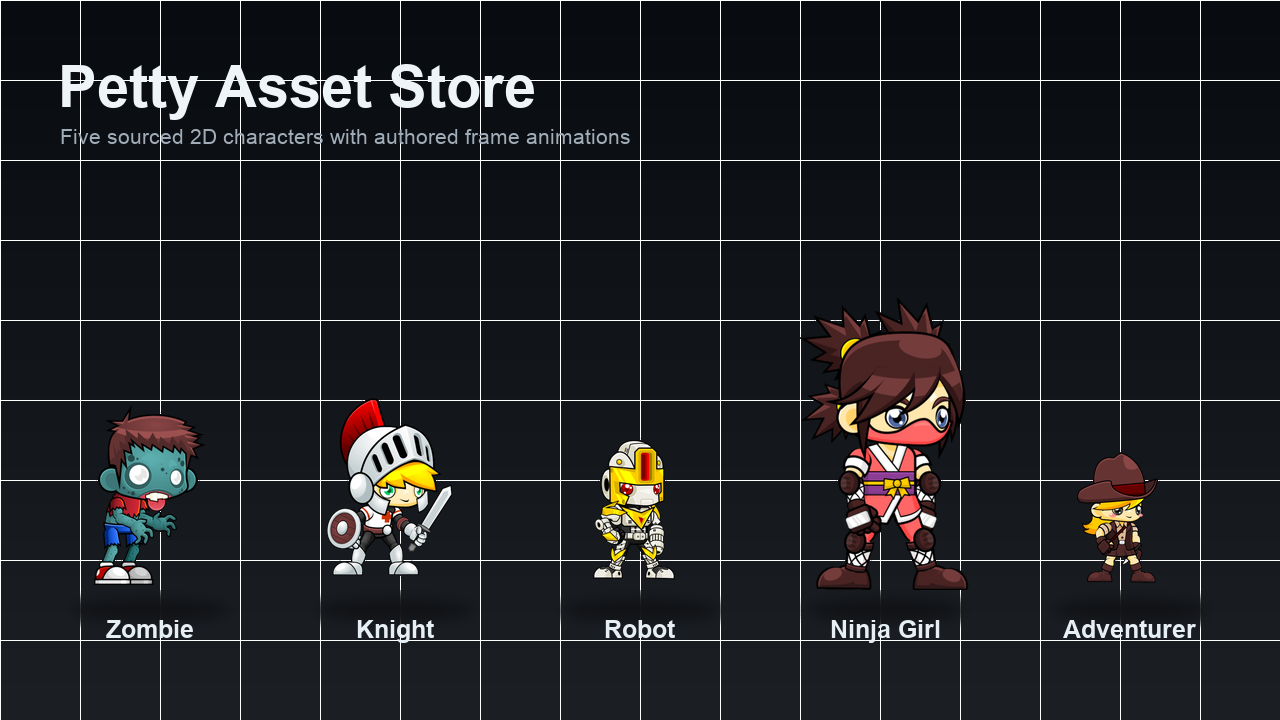
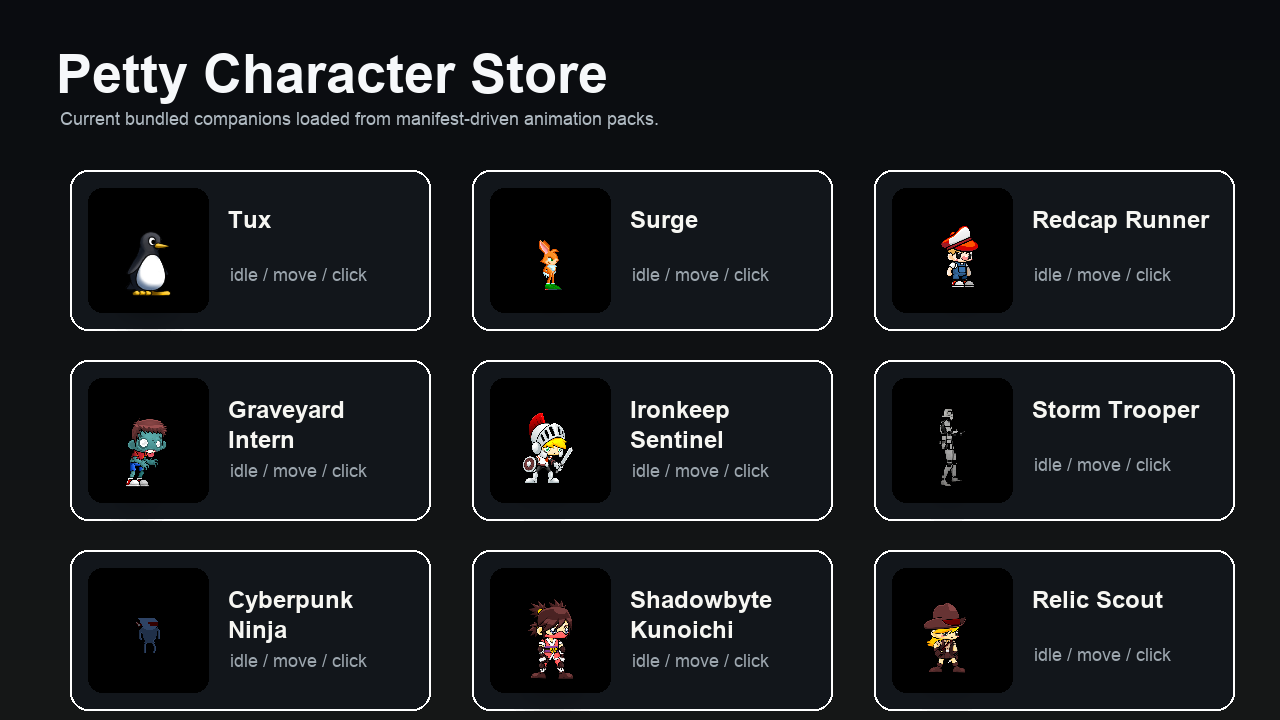
feat(assets): add storm trooper character

diff --git a/Petty/Petty/Character/CharacterAsset.swift b/Petty/Petty/Character/CharacterAsset.swift
@@ -148,8 +148,8 @@ enum CharacterCatalog {
     private static let fallbackAssets: [CharacterAsset] = [
         CharacterAsset(
             id: "gameart2d-zombie",
-            displayName: "Zombie",
-            tagline: "Halloween platformer character",
+            displayName: "Graveyard Intern",
+            tagline: "Sleepy undead companion for idle-mode testing",
             resourceFolder: "GameArt2DZombie",
             resourceURL: nil,
             source: "OpenGameArt CC0 by pzUH / GameArt2D",
@@ -161,8 +161,8 @@ enum CharacterCatalog {
         ),
         CharacterAsset(
             id: "gameart2d-knight",
-            displayName: "Knight",
-            tagline: "Fantasy side-scroller hero",
+            displayName: "Ironkeep Sentinel",
+            tagline: "Castle-guard companion with sword-state animations",
             resourceFolder: "GameArt2DKnight",
             resourceURL: nil,
             source: "GameArt2D Freebie CC0",
@@ -173,22 +173,22 @@ enum CharacterCatalog {
             sleepAnimation: CharacterAnimation(folder: "Dead", frameCount: 10, framesPerSecond: 4, loops: false)
         ),
         CharacterAsset(
-            id: "gameart2d-robot",
-            displayName: "Robot",
-            tagline: "Sci-fi platformer companion",
-            resourceFolder: "GameArt2DRobot",
+            id: "wk-studio-storm-trooper",
+            displayName: "Storm Trooper",
+            tagline: "Free retro Star Wars-tagged 2D animated sprite pack",
+            resourceFolder: "WKStudioStormTrooper",
             resourceURL: nil,
-            source: "GameArt2D Freebie CC0",
+            source: "W_K_Studio CC0 itch.io asset pack",
             sortOrder: 30,
-            idleAnimation: CharacterAnimation(folder: "Idle", frameCount: 10, framesPerSecond: 7, loops: true),
-            walkAnimation: CharacterAnimation(folder: "Walk", frameCount: 8, framesPerSecond: 10, loops: true),
-            attackAnimation: CharacterAnimation(folder: "Attack", frameCount: 8, framesPerSecond: 13, loops: true),
-            sleepAnimation: CharacterAnimation(folder: "Dead", frameCount: 10, framesPerSecond: 4, loops: false)
+            idleAnimation: CharacterAnimation(folder: "Idle", frameCount: 20, framesPerSecond: 8, loops: true),
+            walkAnimation: CharacterAnimation(folder: "Walk", frameCount: 20, framesPerSecond: 12, loops: true),
+            attackAnimation: CharacterAnimation(folder: "Attack", frameCount: 8, framesPerSecond: 12, loops: true),
+            sleepAnimation: CharacterAnimation(folder: "Dead", frameCount: 20, framesPerSecond: 8, loops: false)
         ),
         CharacterAsset(
             id: "gameart2d-ninja-girl",
-            displayName: "Ninja Girl",
-            tagline: "Fast action platformer hero",
+            displayName: "Shadowbyte Kunoichi",
+            tagline: "Stealth runner with sharp desktop focus",
             resourceFolder: "GameArt2DNinjaGirl",
             resourceURL: nil,
             source: "GameArt2D Freebie CC0",
@@ -200,8 +200,8 @@ enum CharacterCatalog {
         ),
         CharacterAsset(
             id: "gameart2d-adventurer-girl",
-            displayName: "Adventurer",
-            tagline: "Temple-run inspired explorer",
+            displayName: "Relic Scout",
+            tagline: "Explorer companion built for quick motion states",
             resourceFolder: "GameArt2DAdventurerGirl",
             resourceURL: nil,
             source: "GameArt2D Freebie CC0",

diff --git a/README.md b/README.md
@@ -4,10 +4,6 @@ Petty is a native macOS prototype for a tiny animated desktop companion. The cur
 
 ## Demo
 
-![Petty demo poster](docs/media/petty-demo-poster.png)
-
-![Petty animation demo](docs/media/petty-demo.gif)
-
 - [X-ready edited MP4 demo with character transitions](docs/media/petty-x-demo.mp4)
 - [Full-size MP4 asset transition demo](docs/media/petty-assets-demo.mp4)
 - [Raw live desktop recording](docs/media/petty-live-recording.mov)
@@ -17,21 +13,23 @@ Petty is a native macOS prototype for a tiny animated desktop companion. The cur
 
 ![Petty asset lineup](docs/media/petty-assets-lineup.png)
 
-The bundled store now includes recognizable free-culture characters from official open-source game projects:
+The bundled store now includes sourced character packs from open game projects, free asset stores, and itch.io:
 
 - Tux from SuperTux.
 - Surge from Open Surge.
-- Santa Claus, Dino, and Red Hat Boy from OpenGameArt/GameArt2D CC0 packs.
+- Storm Trooper from W_K_Studio's CC0 itch.io sprite pack.
+- Redcap Runner from an OpenGameArt/GameArt2D CC0 pack.
+- Cyberpunk Ninja from Pincholinco's CC BY 4.0 itch.io sprite pack.
 
-It also includes the earlier GameArt2D/OpenGameArt packs:
+It also includes the earlier GameArt2D/OpenGameArt packs that remain in the store:
 
-| Zombie | Knight | Robot |
+| Graveyard Intern | Ironkeep Sentinel | Storm Trooper |
 | --- | --- | --- |
-| ![Zombie asset states](docs/media/petty-asset-zombie.png) | ![Knight asset states](docs/media/petty-asset-knight.png) | ![Robot asset states](docs/media/petty-asset-robot.png) |
+| ![Graveyard Intern asset states](docs/media/petty-asset-zombie.png) | ![Ironkeep Sentinel asset states](docs/media/petty-asset-knight.png) | ![Storm Trooper asset states](docs/media/petty-asset-storm-trooper.png) |
 
-| Ninja Girl | Adventurer |
+| Shadowbyte Kunoichi | Relic Scout |
 | --- | --- |
-| ![Ninja Girl asset states](docs/media/petty-asset-ninja-girl.png) | ![Adventurer asset states](docs/media/petty-asset-adventurer.png) |
+| ![Shadowbyte Kunoichi asset states](docs/media/petty-asset-ninja-girl.png) | ![Relic Scout asset states](docs/media/petty-asset-adventurer.png) |
 
 ## Current Prototype Features
 

diff --git a/docs/ASSET_RESEARCH.md b/docs/ASSET_RESEARCH.md
@@ -20,20 +20,6 @@ This file tracks recognizable character candidates checked against official or p
 - License finding: the official Open Surge site says the engine includes ready-to-use game assets under Creative Commons licenses; the `sprites/players/surge.spr` file lists MIT for the sprite definition.
 - Imported as: `Petty/Petty/Resources/Characters/OpenSurgeSurge`
 
-### Santa Claus from OpenGameArt / GameArt2D
-
-- Official source: https://opengameart.org/content/santa-claus-free-sprites
-- Why it fits: recognizable Christmas folklore character with authored frame animations.
-- License finding: OpenGameArt lists the asset as CC0.
-- Imported as: `Petty/Petty/Resources/Characters/GameArt2DSanta`
-
-### Dino from OpenGameArt / GameArt2D
-
-- Official source: https://opengameart.org/content/free-dino-sprites
-- Why it fits: recognizable T-Rex/dinosaur mascot style with authored frame animations.
-- License finding: OpenGameArt lists the asset as CC0.
-- Imported as: `Petty/Petty/Resources/Characters/GameArt2DDino`
-
 ### Red Hat Boy from OpenGameArt / GameArt2D
 
 - Official source: https://opengameart.org/content/red-hat-boy-free-sprites
@@ -41,7 +27,22 @@ This file tracks recognizable character candidates checked against official or p
 - License finding: OpenGameArt lists the asset as CC0.
 - Imported as: `Petty/Petty/Resources/Characters/GameArt2DRedHatBoy`
 
+### Storm Trooper from W_K_Studio
+
+- Source: https://whiteknightstudios.itch.io/old-school-fps-8d-trooper-v3
+- Why it fits: Star-Wars-tagged 2D sprite pack with idle, walking, shooting, and falling animations.
+- License finding: itch.io lists the asset license as Creative Commons Zero v1.0 Universal.
+- Imported as: `Petty/Petty/Resources/Characters/WKStudioStormTrooper`
+
 ## Researched But Not Imported
+
+### Removed From Store
+
+These packs were previously imported, but are no longer bundled in the Character Store:
+
+- `Petty/Petty/Resources/Characters/GameArt2DSanta`
+- `Petty/Petty/Resources/Characters/GameArt2DDino`
+- `Petty/Petty/Resources/Characters/PettySpartanWarlord`
 
 ### Commercial Franchise List From June 17 Research
 

diff --git a/Petty/Petty/Resources/Characters/WKStudioStormTrooper/ATTRIBUTION.md b/Petty/Petty/Resources/Characters/WKStudioStormTrooper/ATTRIBUTION.md
@@ -1,0 +1,12 @@
+# Storm Trooper
+
+Imported from **Free RETRO FPS/Side scroll Pixel 2D "Storm Trooper"** by W_K_Studio.
+
+Source: https://whiteknightstudios.itch.io/old-school-fps-8d-trooper-v3
+License stated on source page: Creative Commons Zero v1.0 Universal.
+
+Notes:
+- Source archive: `storm trooper.rar`.
+- Petty uses the east-facing direction from the source pack.
+- Source animation mapping: `IDLEING` -> idle, `WALKING` -> walk, `SHOOTING IDLE` -> attack, `FALLING` -> sleepy/dead slot.
+- Black source backgrounds were converted to transparency for desktop rendering.
